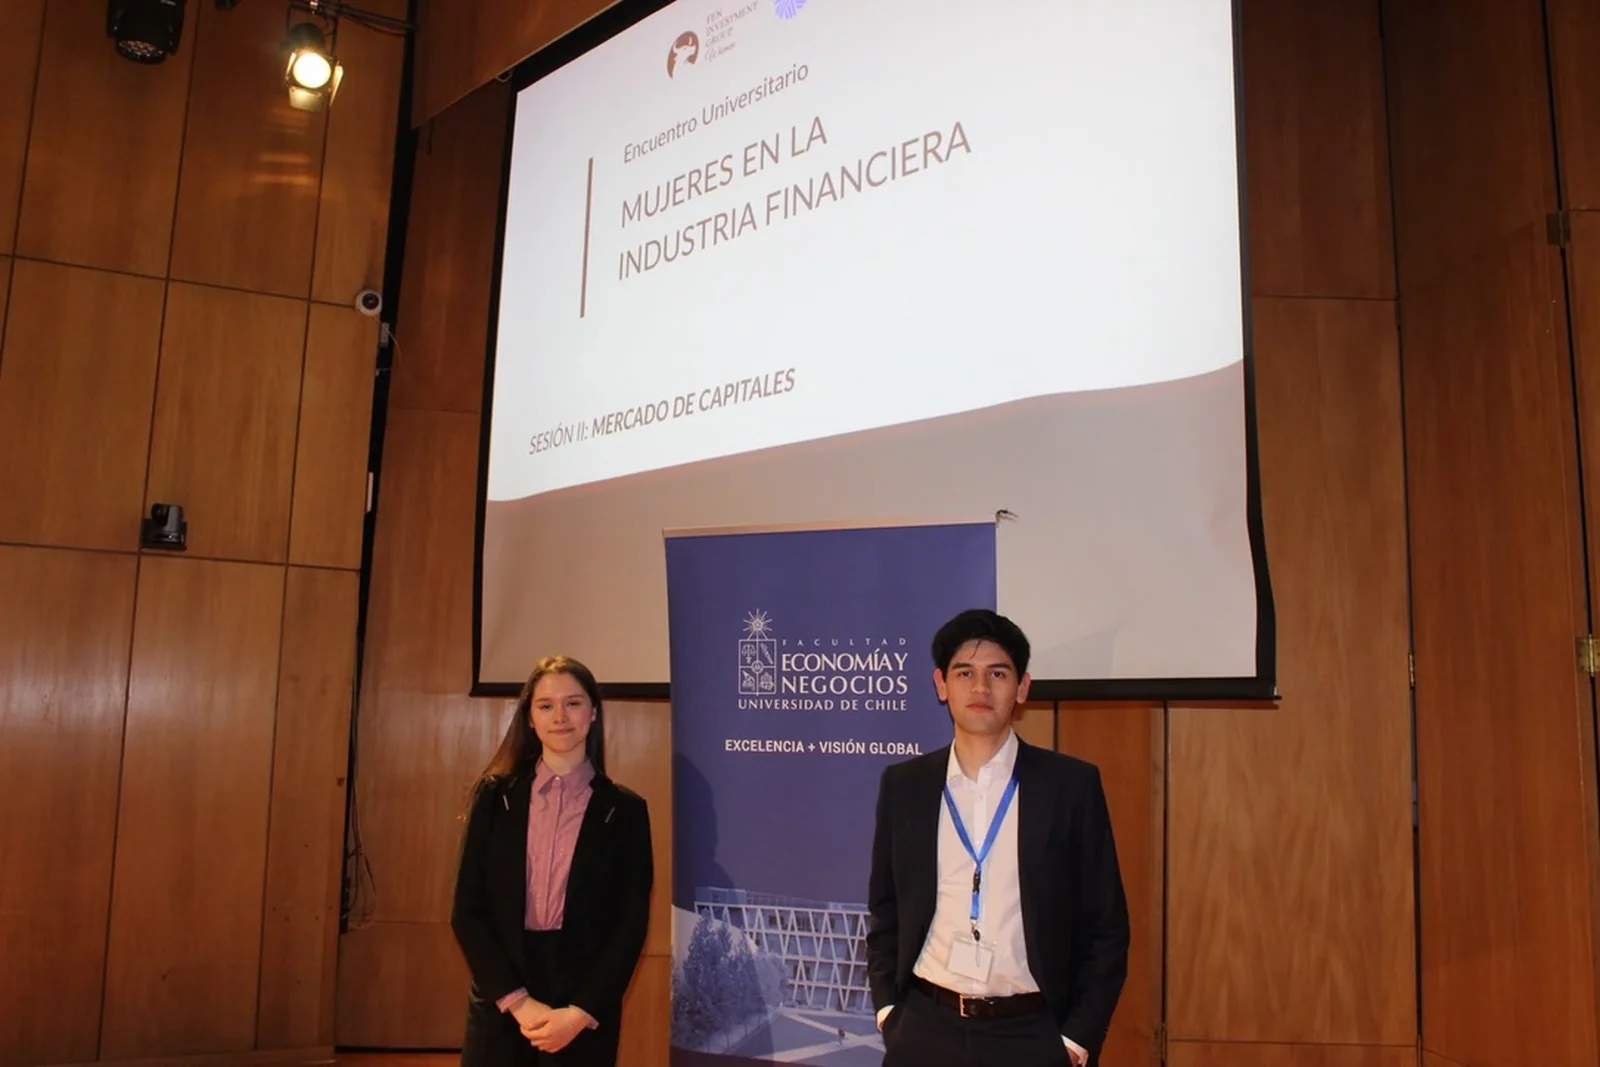
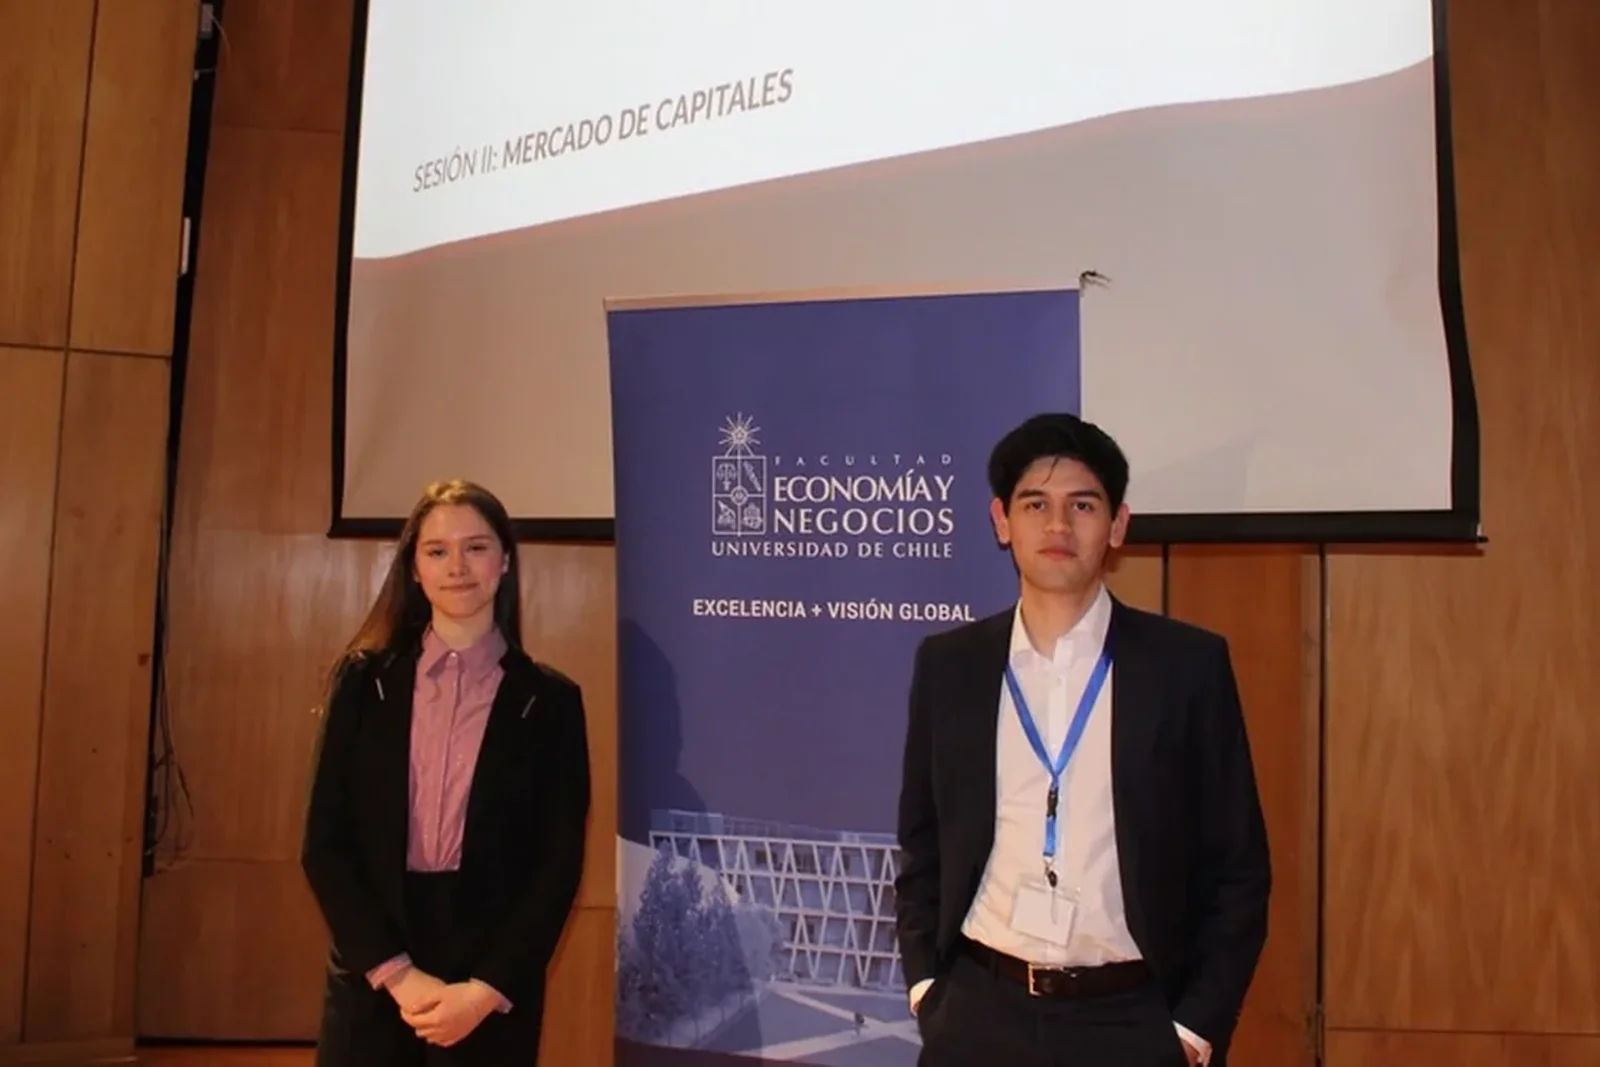
reorder gallery: newest activities first

diff --git a/client/src/pages/Home.jsx b/client/src/pages/Home.jsx
@@ -13,6 +13,20 @@ const PILLARS = [
 
 const GALLERY = [
   {
+    src: '/images/galeria/lse-charla.webp',
+    partner: 'London School of Economics · Fundación Luksic',
+    location: 'Santiago',
+    title: 'Charla de Nathan Brennan sobre programas de postgrado en LSE',
+    year: '2026',
+  },
+  {
+    src: '/images/galeria/fen-xtb-kickoff.webp',
+    partner: 'FEN Investment Group · XTB',
+    location: 'Santiago',
+    title: 'Kick-off del Torneo Interuniversitario de Trading con la directiva del club',
+    year: '2026',
+  },
+  {
     src: '/images/galeria/bloomberg-oficinas.webp',
     partner: 'Bloomberg',
     location: 'Santiago',
@@ -52,13 +66,6 @@ const GALLERY = [
     partner: 'Finance Club UdeC',
     location: 'Concepción',
     title: 'Directiva 2026 en el Laboratorio de Finanzas FACEA',
-    year: '2026',
-  },
-  {
-    src: '/images/galeria/fen-xtb-kickoff.webp',
-    partner: 'FEN Investment Group · XTB',
-    location: 'Santiago',
-    title: 'Kick-off del Torneo Interuniversitario de Trading con la directiva del club',
     year: '2026',
   },
 ]
@@ -110,7 +117,7 @@ const PARTNERS = [
     tag:'Socio en eventos',
   },
   {
-    logo: <div className={s.pLogoJPM}>J.P.Morgan</div>,
+    logo: <img src="/images/partners/jpmorgan-logo.png" alt="J.P. Morgan" className={s.pLogoJPMImg} />,
     cat:'Banca de Inversión', name:'J.P. Morgan',
     desc:'Uno de los bancos de inversión más influyentes del mundo. Colabora con el club a través de charlas sobre mercados globales, banca de inversión y desarrollo profesional en finanzas.',
     tag:'Socio en eventos',

diff --git a/client/src/pages/Home.module.css b/client/src/pages/Home.module.css
@@ -281,17 +281,12 @@
   text-transform: none;
 }
 
-.pLogoJPM {
-  font-family: var(--serif);
-  font-size: 26px;
-  font-weight: 700;
-  letter-spacing: -0.01em;
-  color: #b8926b;
-  display: flex;
-  align-items: center;
-  height: 40px;
-  text-transform: none;
-  line-height: 1;
+.pLogoJPMImg {
+  height: 32px;
+  width: auto;
+  display: block;
+  object-fit: contain;
+  filter: brightness(1.15) saturate(1.1);
 }
 
 .pLogoLSEImg {
